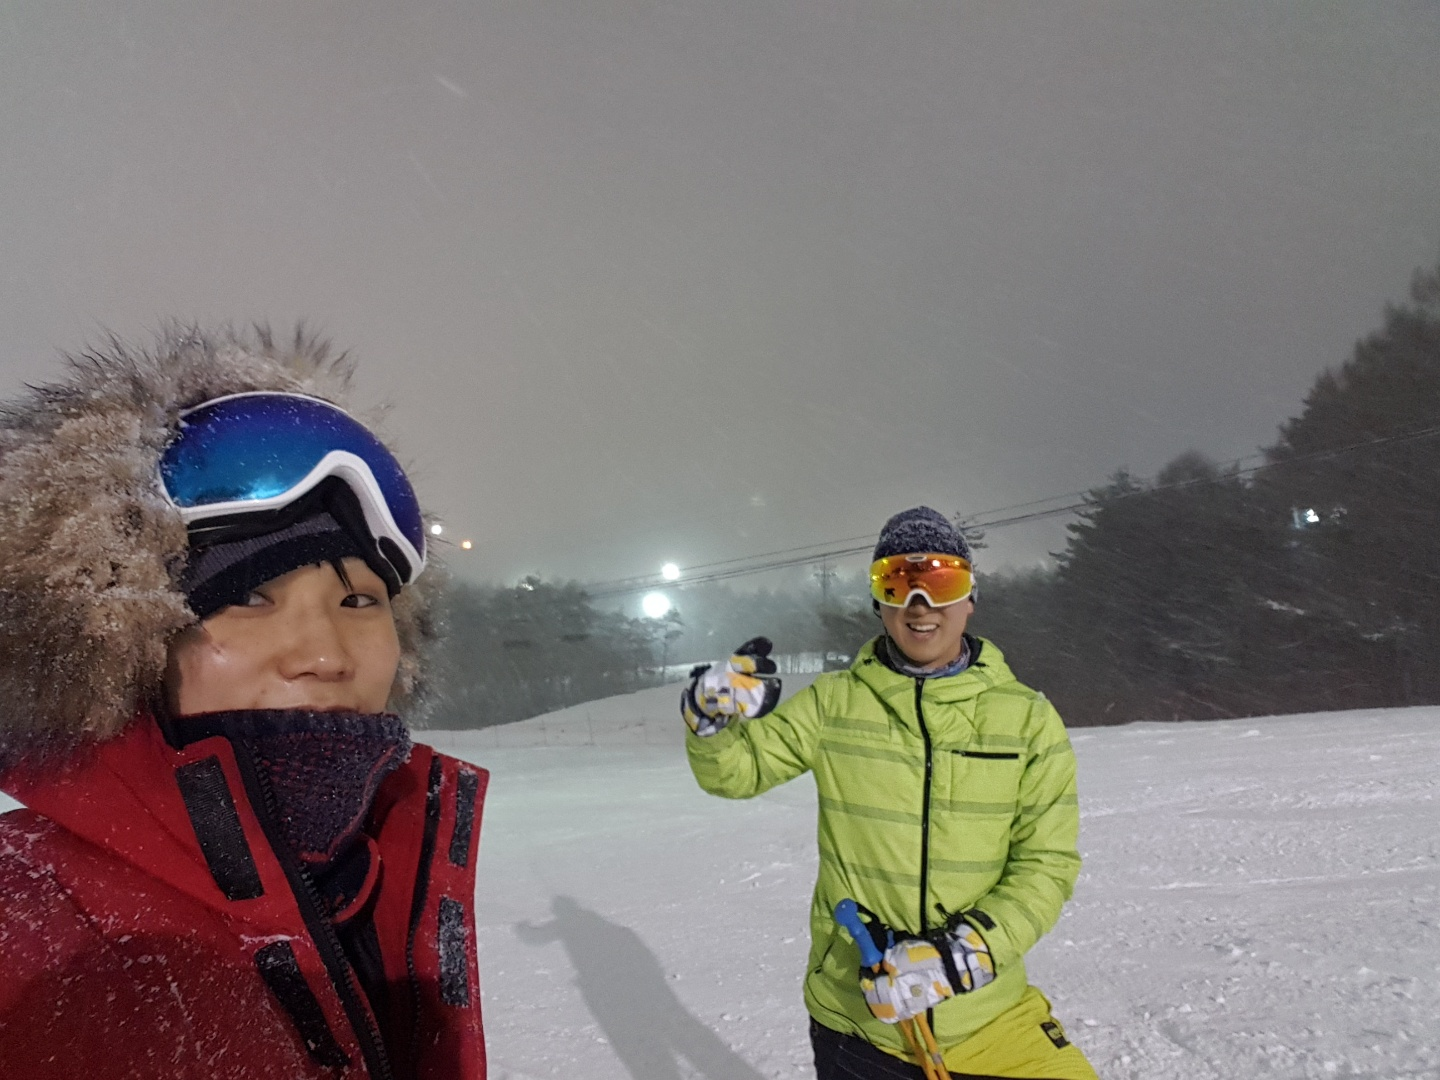
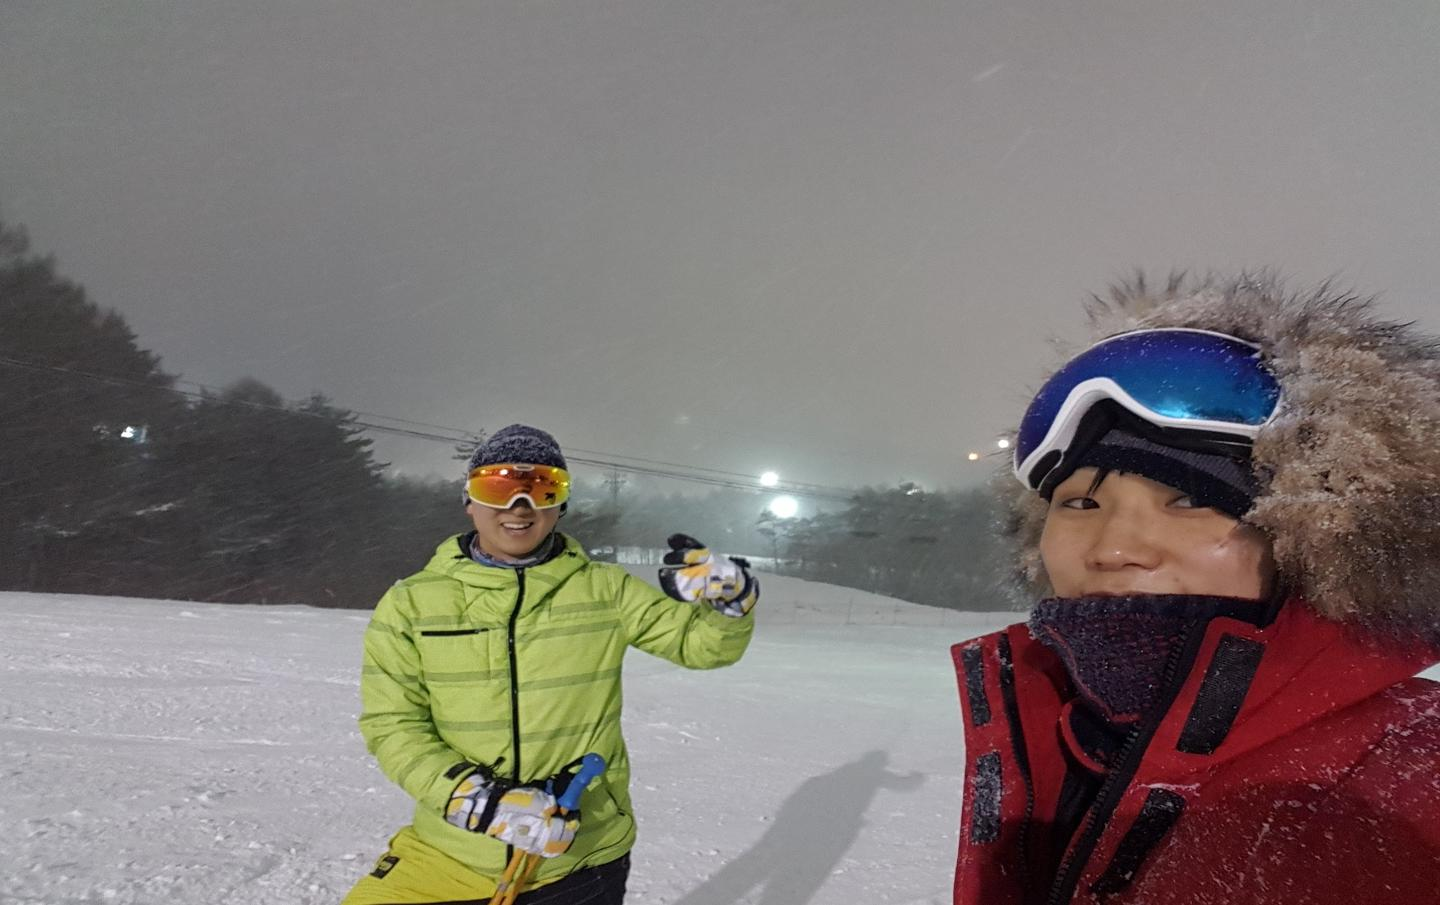
change

diff --git a/index.md b/index.md
@@ -2,7 +2,7 @@
 layout: single
 author_profile: true
 header:
-  overlay_image: header/2013_japan.jpg
+  overlay_image: header/2013_winter.jpg
 excerpt: "Intelligent Robotics"
 feature_row_pub:
   - url: /pub/Robust-Visual-Odometry-via-Rigid-Motion-Segmentation-for-Dynamic-Environments/
